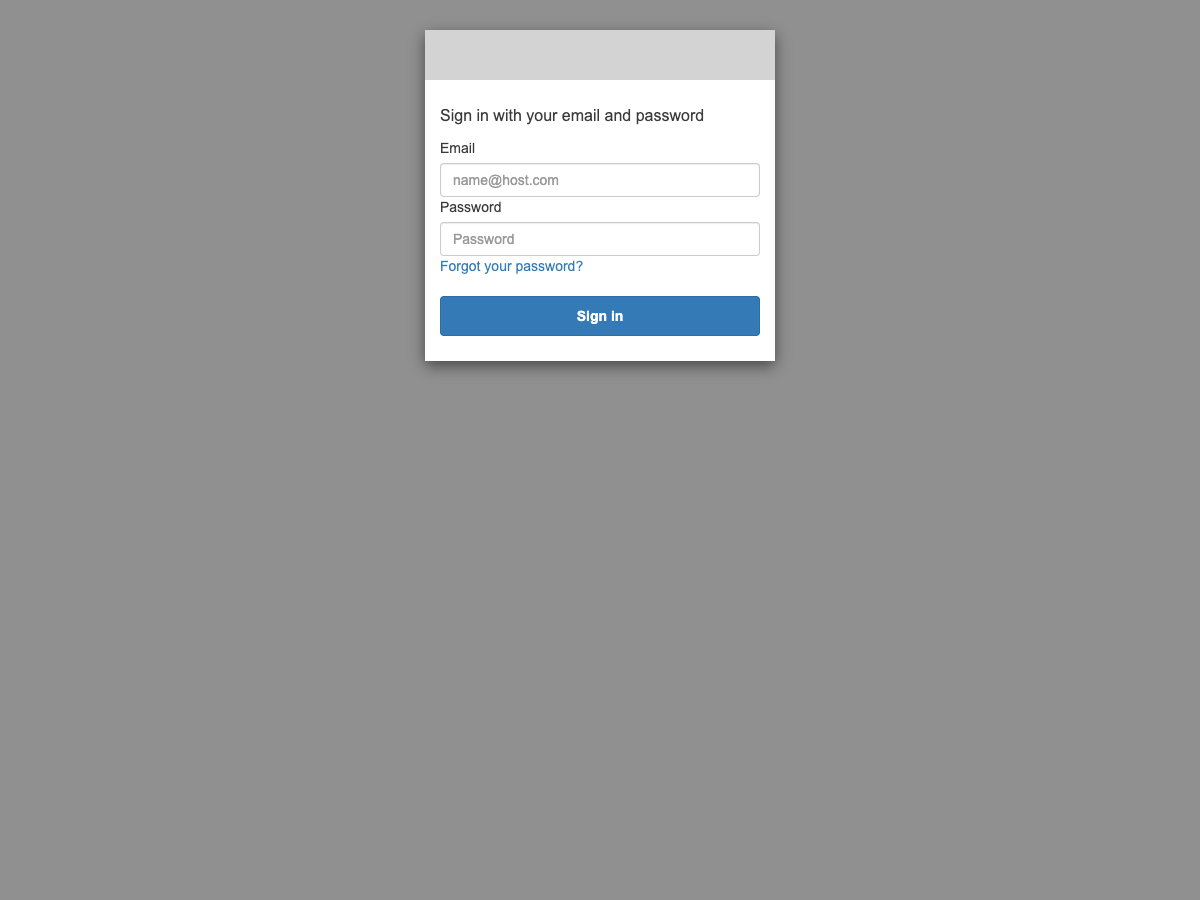
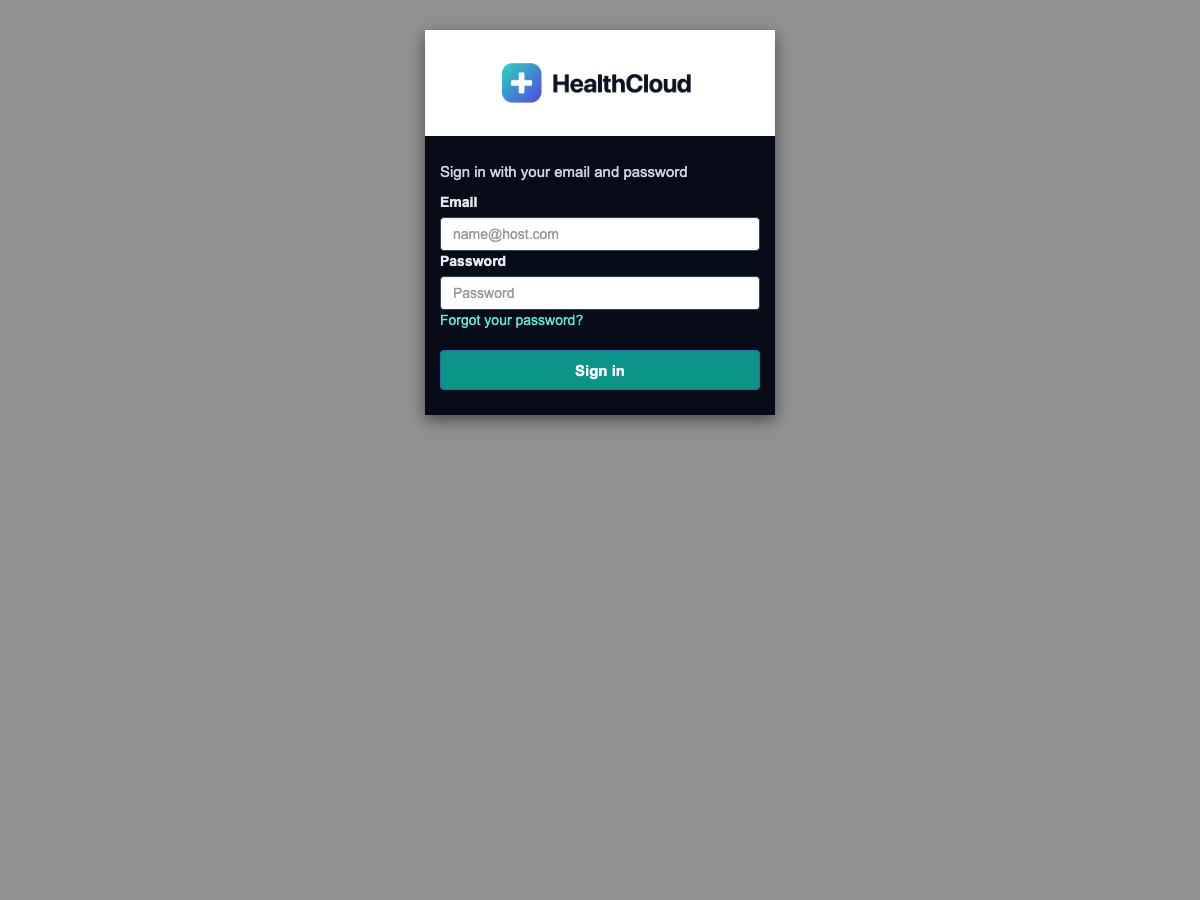
docs: refresh AWS cloud evidence to current build + real branding (Phase 12 slice 6e)
Rebuilt the current frontend+backend images (ARM64) to ECR and redeployed, and
branded the deployed Cognito app client to match the app (copied the exact
hosted-UI CSS + wordmark logo from the local client). Recaptured all three cloud
shots: the current bespoke landing over HTTPS, the branded Cognito hosted login,
and the authenticated current sidebar UI (Alex Admin / ORG_ADMIN). Updated
aws.md accordingly.

Changed region(s): [[0.3392, 0.0311, 0.6475, 0.4978]]

diff --git a/docs/evidence/aws.md b/docs/evidence/aws.md
@@ -15,18 +15,19 @@ and [`../adr/ADR-015-on-demand-full-aws-validation.md`](../adr/ADR-015-on-demand
 
 ## Live app over HTTPS
 
-The deployed sign-in page, served over HTTPS through CloudFront. The production build exposes **only
-"Sign in with Cognito"** — the local `dev-login` bypass is compiled out and disabled on the deploy
-(the `demo,cognito` profile), so Cognito is the single path in.
+The deployed landing page, served over HTTPS through CloudFront. Sign-in is **only via Cognito** — the
+local `dev-login` bypass is compiled out and disabled on the deploy (the `demo,cognito` profile), so
+Cognito is the single path in.
 
-![Deployed HealthCloud sign-in over HTTPS](screenshots/aws/aws-01-landing-https.png)
+![Deployed HealthCloud landing over HTTPS](screenshots/aws/aws-01-landing-https.png)
 
 ## Real Amazon Cognito login
 
-Clicking "Sign in with Cognito" redirects (OIDC authorization-code + PKCE) to the **Amazon Cognito
-hosted login** — real managed authentication, not an app-rendered form.
+Clicking "Sign in" redirects (OIDC authorization-code + PKCE) to the **Amazon Cognito hosted login** —
+real managed authentication, not an app-rendered form. The hosted UI carries the HealthCloud branding
+(logo, dark theme, teal accent) applied to the app client.
 
-![Amazon Cognito hosted login page](screenshots/aws/aws-02-cognito-login.png)
+![Amazon Cognito hosted login page (branded)](screenshots/aws/aws-02-cognito-login.png)
 
 ## Authenticated on the cloud
 
@@ -44,11 +45,11 @@ database** (never from the token) — the layered security model working end-to-
 - Identity from Cognito, **roles/tenant from the DB** — the same authorization model proven locally,
   running in the cloud.
 
-> **Note on the deployed UI.** These cloud screenshots show an **earlier build** of the frontend (a
-> top-nav layout). Per the project's workflow, ECR images are pushed manually rather than from CI, so
-> the deployed image lags the current codebase. The **current, polished UI** (sidebar shell, bespoke
-> landing, etc.) is captured against the live local build in [ui.md](ui.md); this page's purpose is to
-> prove **deployment + real HTTPS authentication**, which it does regardless of the frontend build age.
+> **Build note.** For this capture the current frontend + backend images were rebuilt (ARM64) and
+> pushed to ECR, and the deployed Cognito app client was branded to match the app — so these cloud
+> screenshots reflect the current build. Per the project workflow, ECR images are pushed manually
+> (`crane`) rather than from CI, and the Cognito hosted-UI branding is applied via the AWS CLI (it is
+> not yet in Terraform — a documented drift item in `CLAUDE.md`).
 
 ## Reproduce
 
